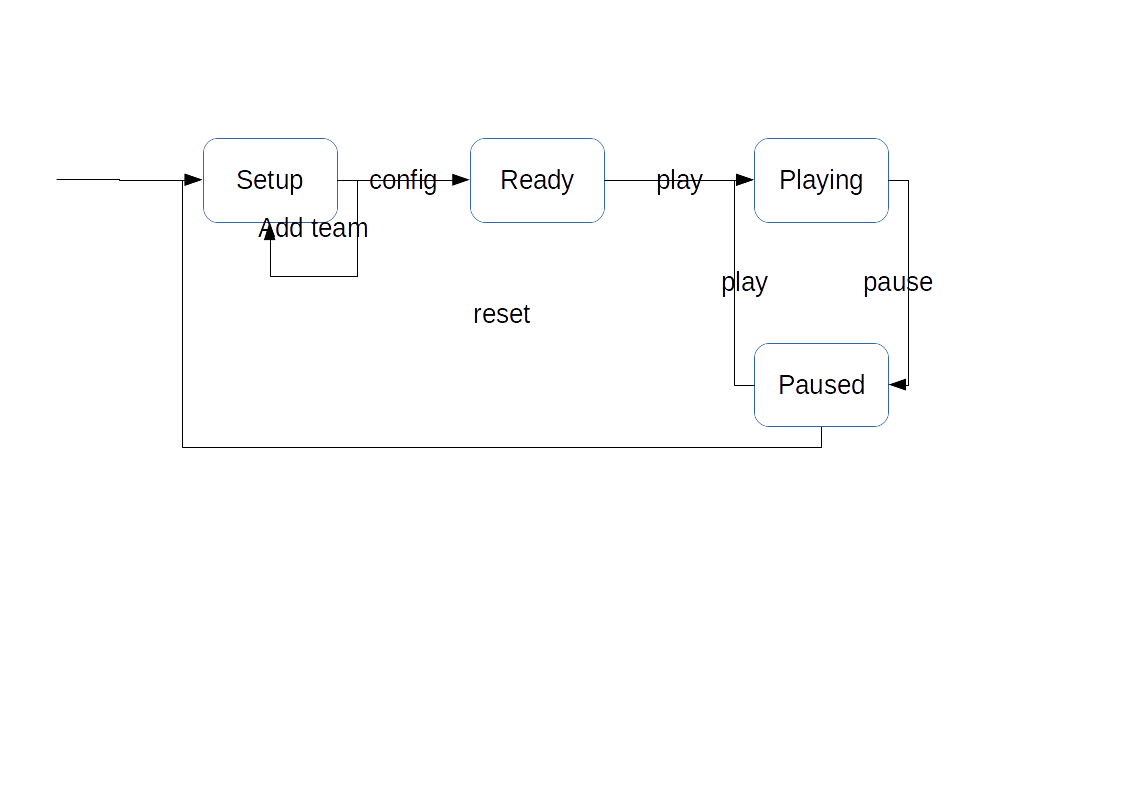
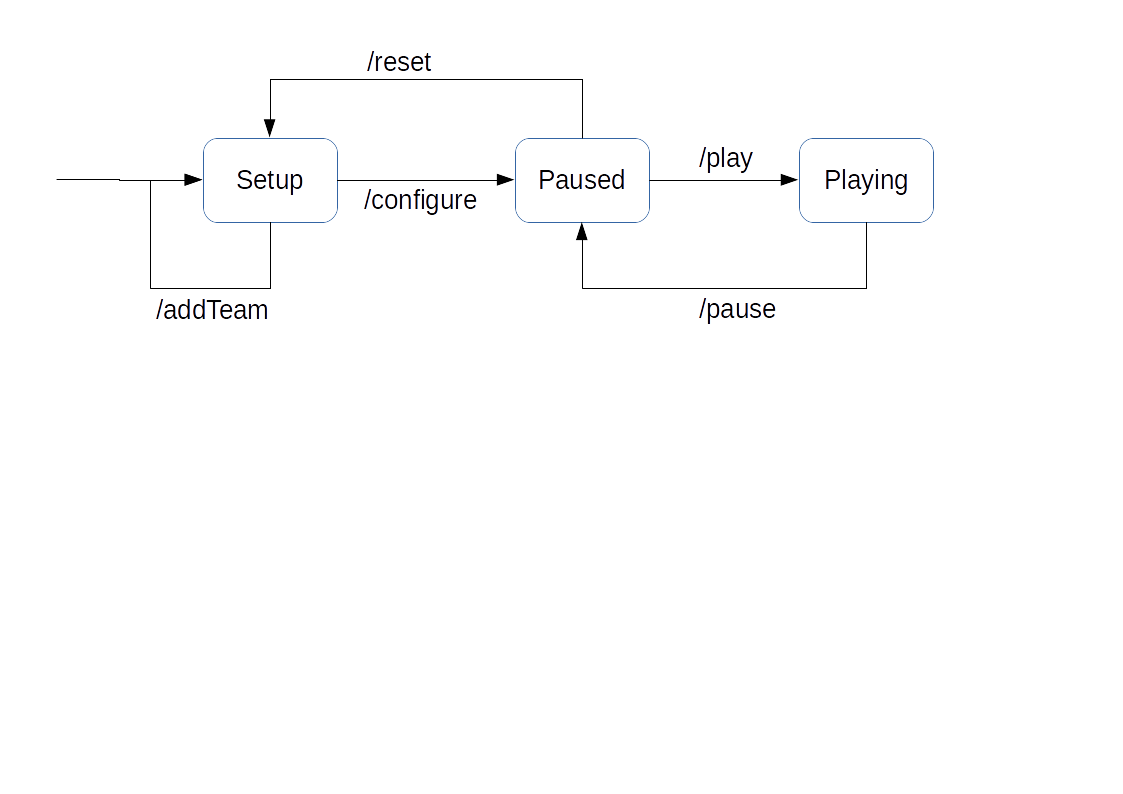
No need for a ready state

diff --git a/client/src/phases/Game.js b/client/src/phases/Game.js
@@ -26,8 +26,20 @@ const Game = React.createClass({
   }
 })
 
+const phaseComponent = (phase) => {
+  switch (phase) {
+    case 'setup':
+      return <SetupPage />
+    case 'playing':
+    case 'paused':
+      return <PlayingPage />
+    default:
+      return (<div> Spinner! </div>)
+  }
+}
+
 const mapStateToProps = ({ phase }) => ({
-  phase: (phase === 'setup' ? <SetupPage /> : <PlayingPage />)
+  phase: phaseComponent(phase)
 })
 
 export default connect(mapStateToProps)(Game)

diff --git a/client/src/phases/reducer.js b/client/src/phases/reducer.js
@@ -1,7 +1,7 @@
 import { START_NEW_GAME_SUCCESS } from './actionCreators'
 import { CONFIGURE_SUCCESS, PLAY_SUCCESS, CEASE_SUCCESS } from '../trends/actionCreators'
 
-export default (state='setup', action) => {
+export default (state='fetching', action) => {
   switch (action.type) {
     case START_NEW_GAME_SUCCESS:
     case CONFIGURE_SUCCESS:

diff --git a/server/spec/states_spec.rb b/server/spec/states_spec.rb
@@ -28,35 +28,6 @@ RSpec.describe 'Game state machine' do
 
   end
 
-  context 'when the current phase is :ready' do
-
-    before do
-      subject.add_team({name: 'fred', colour: '#f00'})
-      subject.configure(Config::DEFAULTS)
-    end
-
-    example 'start is valid' do
-      expect(subject.start[0]).to eq(200)
-    end
-
-    example 'add_team is not valid' do
-      expect(subject.add_team({name: 'joe', colour: '#f00'})[0]).to eq(400)
-    end
-
-    example 'configure is valid' do
-      expect(subject.configure(Config::DEFAULTS)[0]).to eq(200)
-    end
-
-    example 'play is valid' do
-      expect(subject.play(false)[0]).to eq(200)
-    end
-
-    example 'pause is not valid' do
-      expect(subject.pause[0]).to eq(400)
-    end
-
-  end
-
   context 'when the current phase is :playing' do
 
     before do

diff --git a/server/game.rb b/server/game.rb
@@ -37,12 +37,12 @@ class Game
   end
 
   def configure(config)
-    return [400, {errors: 'Action not permitted at this time'}] unless [:setup, :ready].include?(@phase)
+    return [400, {errors: 'Action not permitted at this time'}] unless @phase == :setup
     @config = @config.merge(config)
     @teams.each do |_, team|
       team.cash_balance = @config.initial_balance
     end
-    @phase = :ready
+    @phase = :paused
     [200, status]
   end
 
@@ -53,7 +53,7 @@ class Game
   end
 
   def play(run_payroll  = true)
-    return [400, {errors: 'Action not permitted at this time'}] unless [:ready, :paused].include?(@phase)
+    return [400, {errors: 'Action not permitted at this time'}] unless @phase == :paused
     if run_payroll
       @payroll_thread = Thread.new do
         loop do

diff --git a/server/spec/configure_spec.rb b/server/spec/configure_spec.rb
@@ -37,7 +37,7 @@ RSpec.describe 'Preparing to play' do
     end
 
     example 'the game is in the ready phase' do
-      expect(subject.status.phase).to eq(:ready)
+      expect(subject.status.phase).to eq(:paused)
     end
 
     example 'the game is using the new config' do
